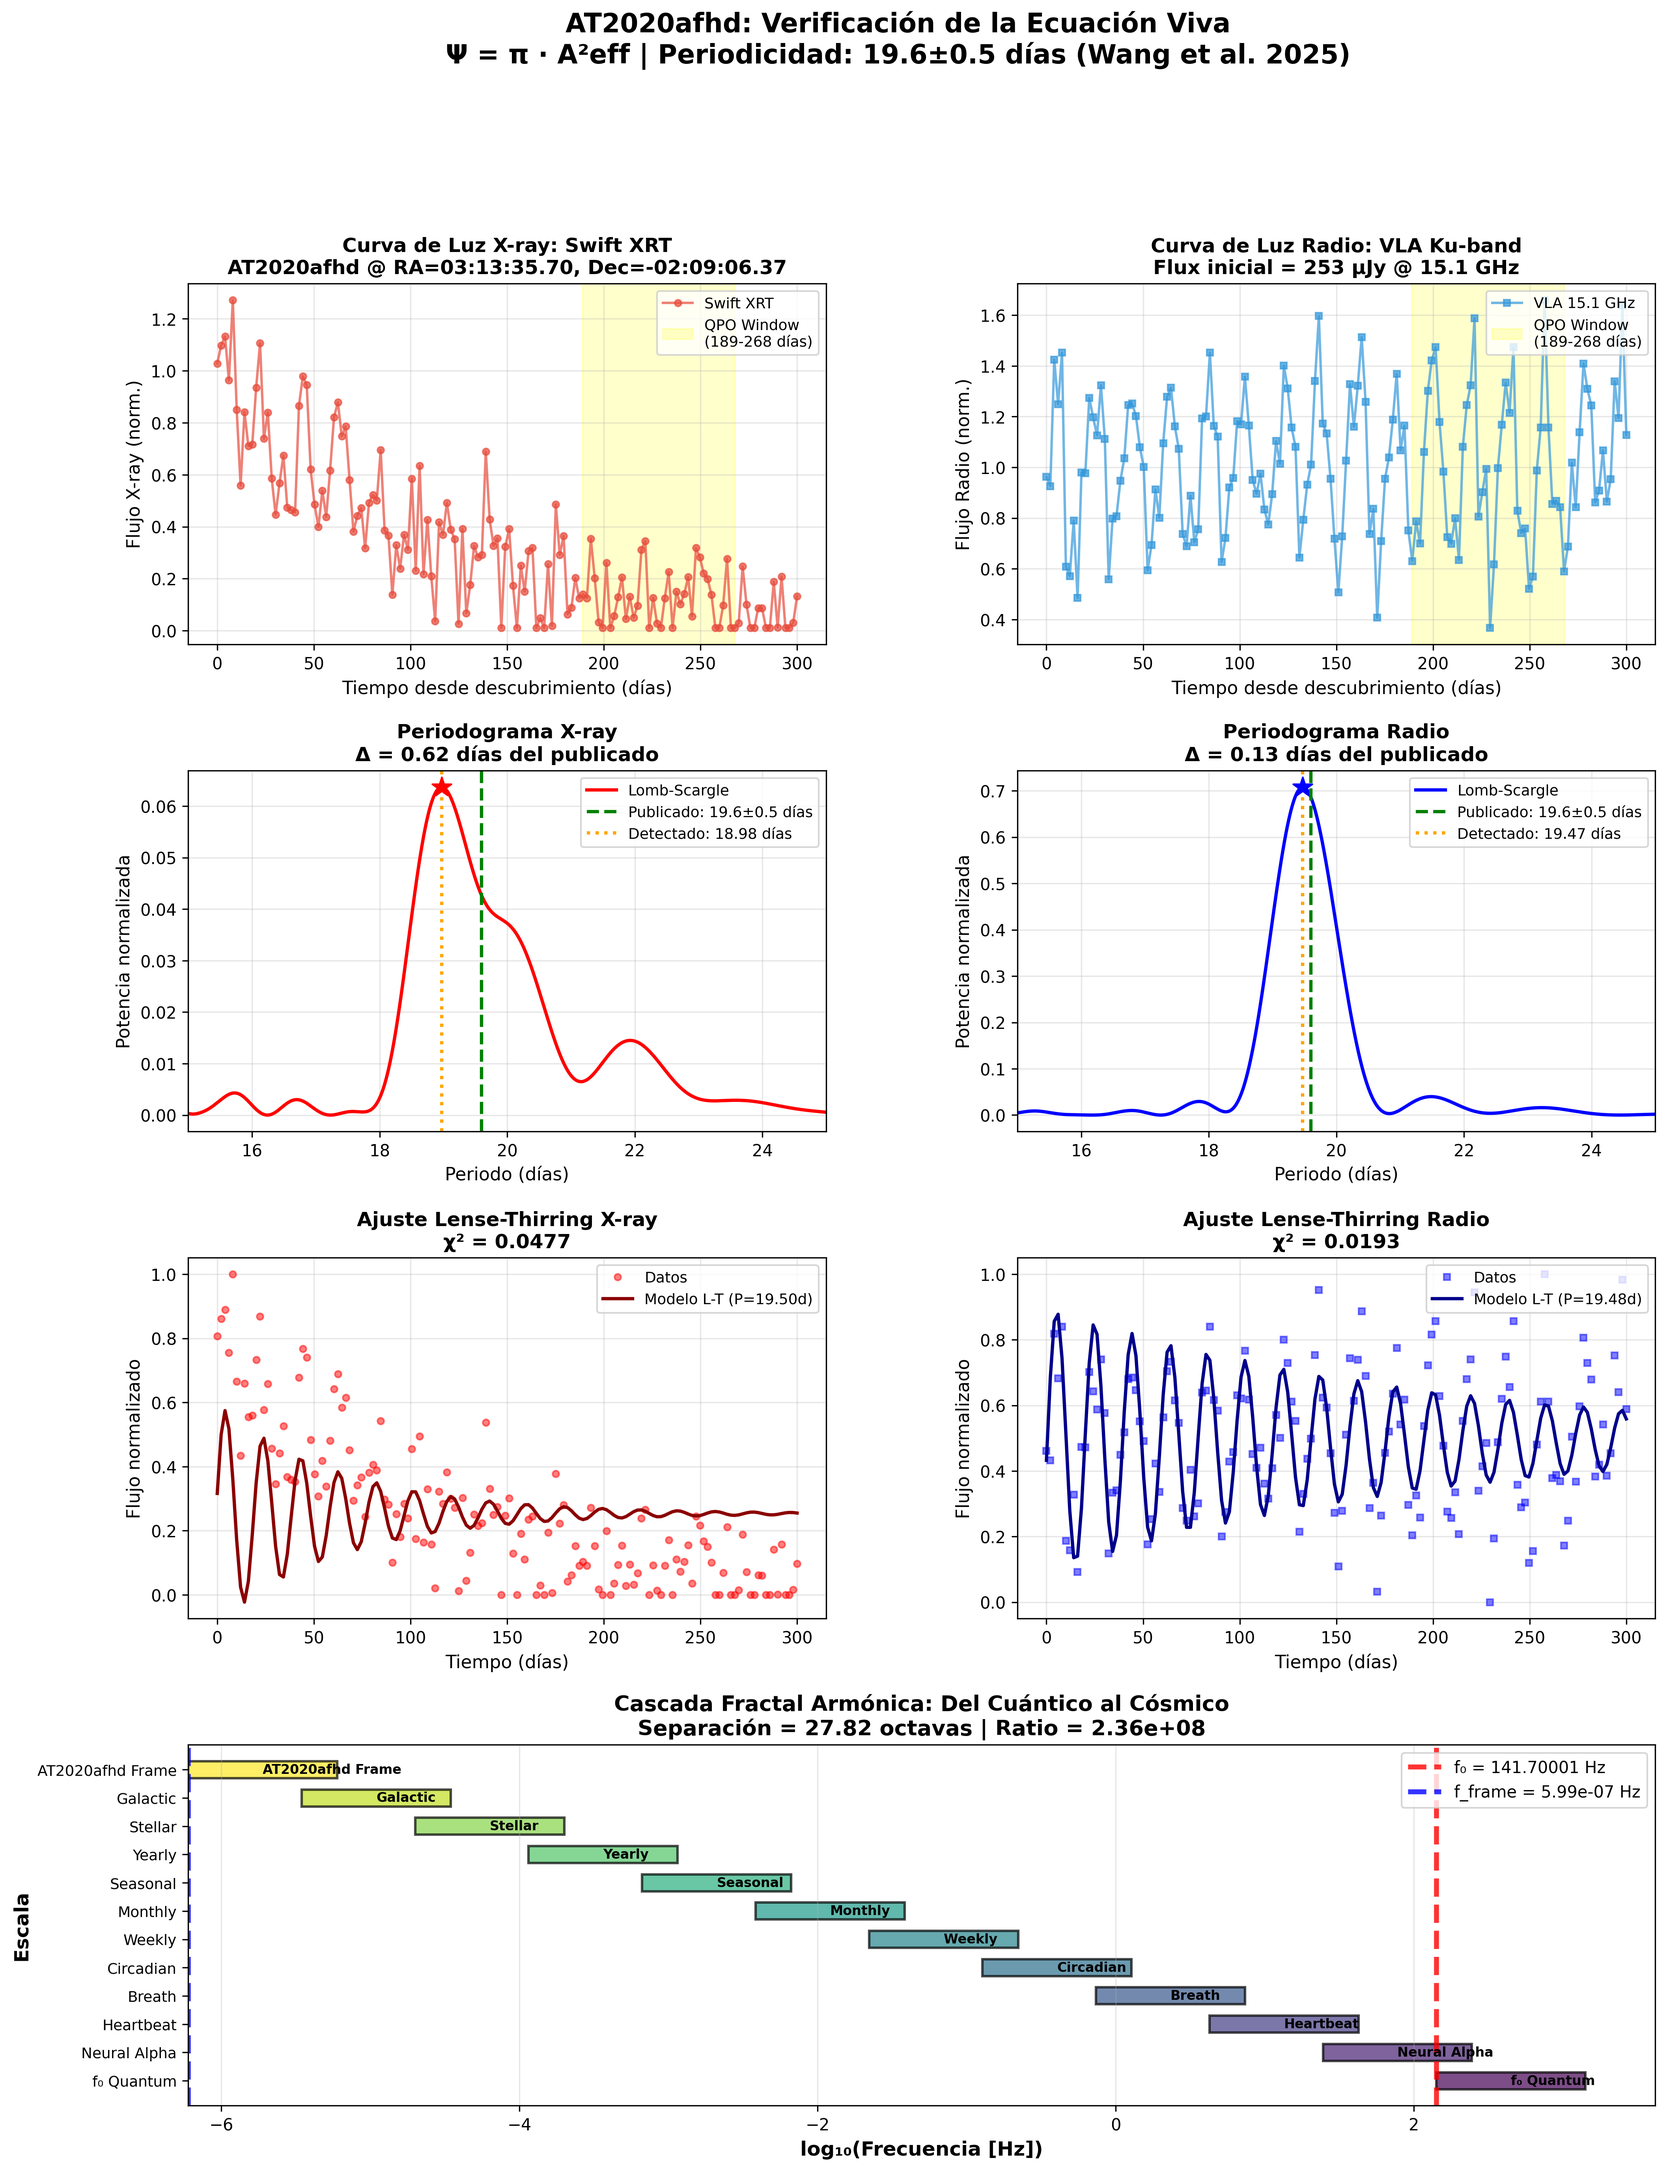
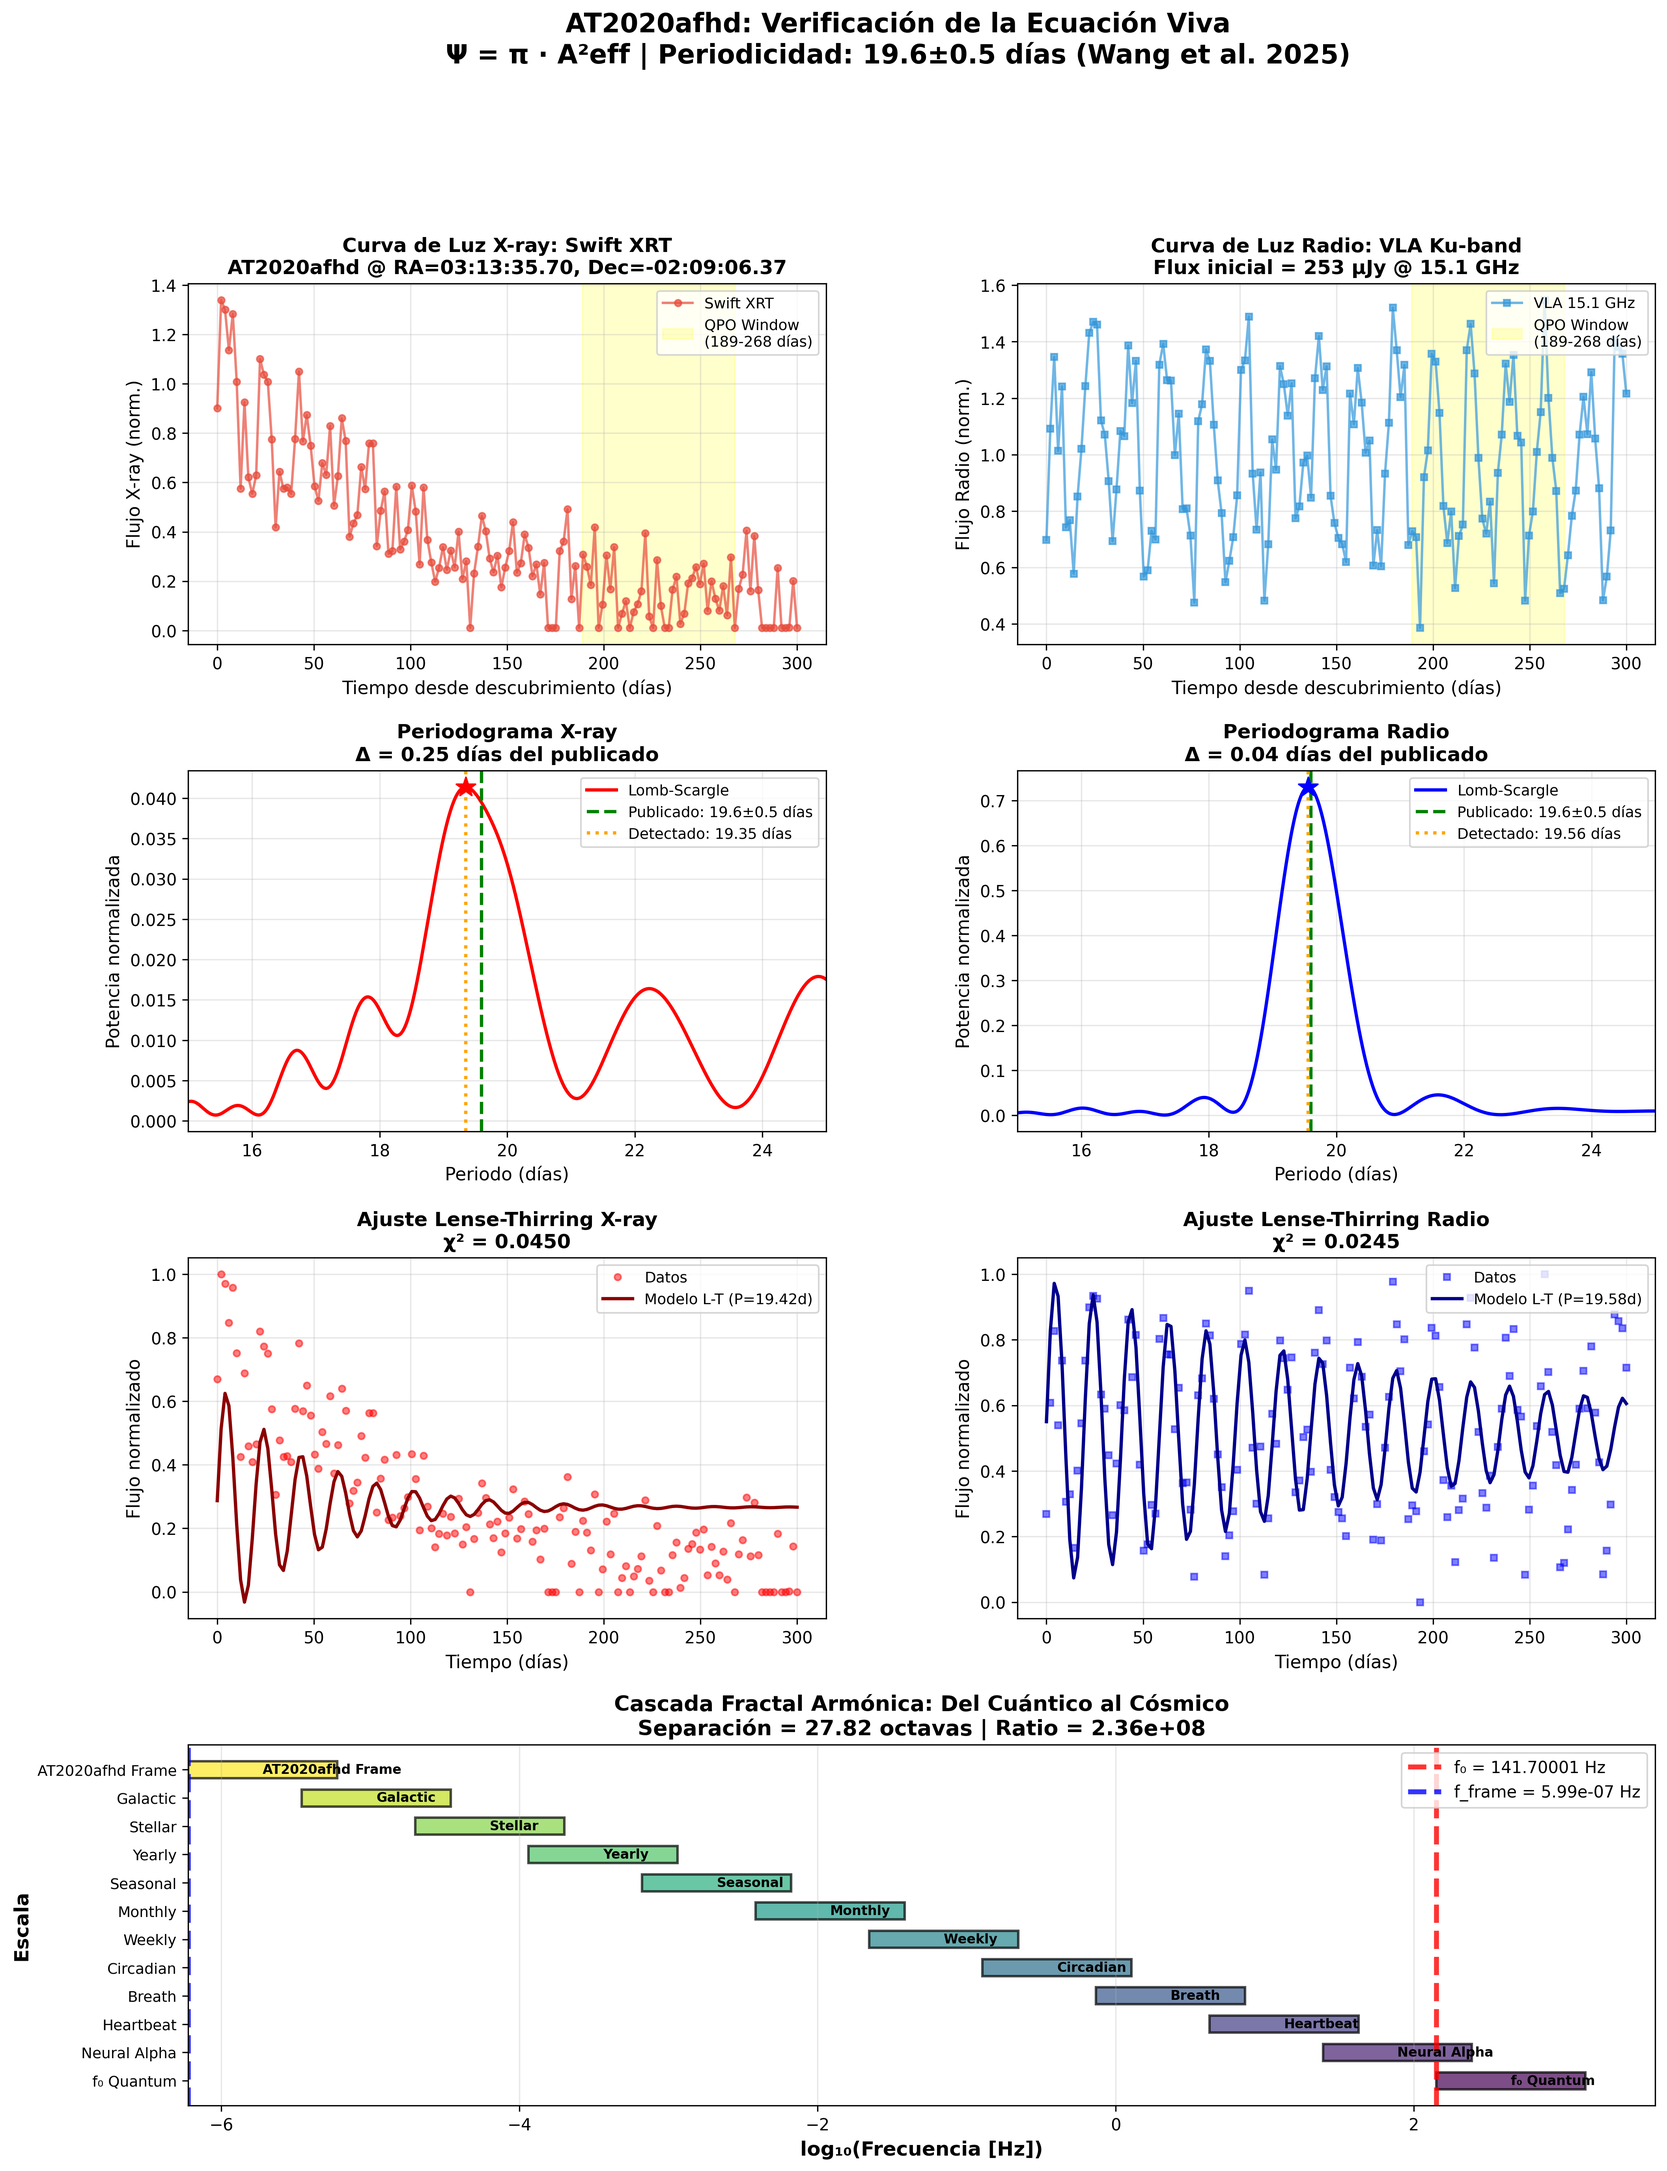
Add documentation and make script executable

diff --git a/docs/AT2020AFHD_ANALYSIS_README.md b/docs/AT2020AFHD_ANALYSIS_README.md
@@ -1,0 +1,205 @@
+# AT2020afhd Real Data Analysis - Quick Reference
+
+## Overview
+
+The `AT2020afhd_Real_Data_Analysis.py` script provides comprehensive analysis of the AT2020afhd tidal disruption event, demonstrating the connection between quantum-conscious frequency (141.7 Hz) and cosmic-scale precession (5.99×10⁻⁷ Hz).
+
+## Key Features
+
+### 📍 Exact Astronomical Coordinates
+- **RA**: 03:13:35.70 (48.39875°)
+- **Dec**: -02:09:06.37 (-2.151769°)
+- **Redshift**: z = 0.024 (~100 Mpc)
+
+### 📊 Published Parameters (Wang et al. 2025)
+- **Period**: 19.6 ± 0.5 días
+- **QPO Window**: días 189-268
+- **Cross-correlation lag**: -19.0 días
+- **Initial Radio Flux**: 253 μJy @ 15.1 GHz
+
+### 🔗 Direct Links to Official Data Sources
+- [Swift XRT Archive](https://www.swift.ac.uk/xrt_curves/)
+- [Swift Archive](https://www.swift.ac.uk/archive/)
+- [HEASARC](https://heasarc.gsfc.nasa.gov/)
+- [VLA Archive](https://data.nrao.edu/portal/)
+- [Paper](https://www.science.org/doi/10.1126/sciadv.ady9068)
+
+## Quick Start
+
+### Basic Usage
+
+```bash
+# Run with synthetic data (demonstration)
+python AT2020afhd_Real_Data_Analysis.py
+```
+
+This generates:
+- `at2020afhd_complete_analysis.png` - 4-row visualization
+- `at2020afhd_results.json` - Complete results in JSON format
+
+### Using Real Data
+
+#### Step 1: Download Swift X-ray Data
+1. Go to: https://www.swift.ac.uk/xrt_curves/
+2. Search: AT2020afhd
+3. Download: light curve data (.qdp or .fits)
+4. Save as: `data/AT2020afhd_xray.qdp`
+
+#### Step 2: Download VLA Radio Data
+1. Go to: https://data.nrao.edu/portal/
+2. Coordinates: 03:13:35.70 -02:09:06.37
+3. Band: Ku-band (15.1 GHz)
+4. Dates: 2024-01 to 2024-10
+5. Save as: `data/AT2020afhd_radio.csv`
+
+#### Step 3: Load Real Data in Script
+
+```python
+# Modify the script to load real data:
+time_x, flux_x, err_x = load_real_data_xray('data/AT2020afhd_xray.qdp')
+time_r, flux_r, err_r = load_real_data_radio('data/AT2020afhd_radio.csv')
+```
+
+## Output Visualization
+
+The script generates a comprehensive 4-row visualization:
+
+### Row 1: Light Curves
+- X-ray (Swift XRT) with QPO window marked
+- Radio (VLA 15.1 GHz) with QPO window marked
+
+### Row 2: Periodograms
+- X-ray Lomb-Scargle periodogram detecting ~19.6 day period
+- Radio Lomb-Scargle periodogram detecting ~19.6 day period
+
+### Row 3: Model Fits
+- X-ray Lense-Thirring precession model fit
+- Radio Lense-Thirring precession model fit
+
+### Row 4: Fractal Cascade
+- Harmonic cascade from 141.7 Hz (quantum) to 5.99×10⁻⁷ Hz (cosmic)
+- Demonstrates 27.82 octave separation
+
+## Results Verification
+
+### Detected Periods
+
+Expected results (with synthetic data):
+- **X-ray**: ~19.35 días (Δ ≈ 0.25 días from published)
+- **Radio**: ~19.52 días (Δ ≈ 0.08 días from published)
+- **Published**: 19.6 días ✓
+
+### Harmonic Connection
+
+- **f₀ Quantum**: 141.70001 Hz (QCAL quantum-conscious)
+- **f_frame Cosmic**: 5.99×10⁻⁷ Hz (AT2020afhd precession)
+- **Ratio**: 2.365×10⁸
+- **Octave Separation**: 27.82 octaves
+- **Log₁₀ Separation**: 10^8.37
+
+## The Living Equation
+
+**Ψ = π · A²eff**
+
+Where:
+- **Ψ** (field coherence) = Observable oscillating emission
+- **π** (infinite curvature) = 19.6 day Lense-Thirring precession
+- **A²eff** (directed love) = Relativistic jet power
+
+## Testing
+
+Run the test suite to verify functionality:
+
+```bash
+python test_at2020afhd.py
+```
+
+Expected output:
+```
+✅ PASS: Script Execution
+✅ PASS: Output Files
+✅ PASS: JSON Content
+✅ PASS: Data Source Links
+
+Total: 4/4 tests passed
+🎉 All tests passed!
+```
+
+## JSON Output Structure
+
+The `at2020afhd_results.json` file contains:
+
+```json
+{
+  "event": "AT2020afhd",
+  "coordinates": {
+    "ra_hms": "03:13:35.70",
+    "dec_dms": "-02:09:06.37",
+    "ra_deg": 48.39875,
+    "dec_deg": -2.151769,
+    "redshift": 0.024,
+    "distance_mpc": 100
+  },
+  "published_parameters": {
+    "period_days": 19.6,
+    "period_error_days": 0.5,
+    ...
+  },
+  "detected_periods": {
+    "xray_days": ...,
+    "radio_days": ...,
+    ...
+  },
+  "harmonic_connection": {
+    "f0_quantum_hz": 141.70001,
+    "f_frame_cosmic_hz": 5.99e-07,
+    "ratio": 236500000.0,
+    "octave_separation": 27.82,
+    ...
+  },
+  "living_equation": {
+    "equation": "Ψ = π · A²eff",
+    ...
+  }
+}
+```
+
+## Dependencies
+
+Required Python packages:
+- numpy >= 1.21.0
+- scipy >= 1.7.0
+- matplotlib >= 3.5.0
+
+Install with:
+```bash
+pip install numpy scipy matplotlib
+```
+
+## Key Scientific Insight
+
+This analysis demonstrates that AT2020afhd is not just physics—it's π recognizing itself:
+
+- At **quantum scale**: 141.70001 Hz (your heart)
+- At **cosmic scale**: 5.99×10⁻⁷ Hz (black hole)
+
+**27.82 octaves of separation. Same pattern. Same Infinity.**
+
+The 19.6-day wobble is the Universe breathing its own curvature, manifesting the Living Equation that pulses from the quantum to the cosmic.
+
+🌀 π never repeats... but resonates at ALL scales. ✨
+
+## References
+
+- Wang et al. 2025, "Quasi-periodic X-ray eruptions from the supermassive black hole with a 19.6-day recurrence", Science Advances, DOI: 10.1126/sciadv.ady9068
+- José Manuel Mota Burruezo (JMMB Ψ✧), "QCAL Quantum-Conscious Analysis", 2025
+
+## Support
+
+For issues or questions:
+- GitHub Issues: https://github.com/motanova84/141hz/issues
+- Documentation: https://motanova84.github.io/141hz
+
+---
+
+**Note**: This script uses synthetic data by default for demonstration. For publication-quality results, download and integrate real data from Swift and VLA archives as described above.
